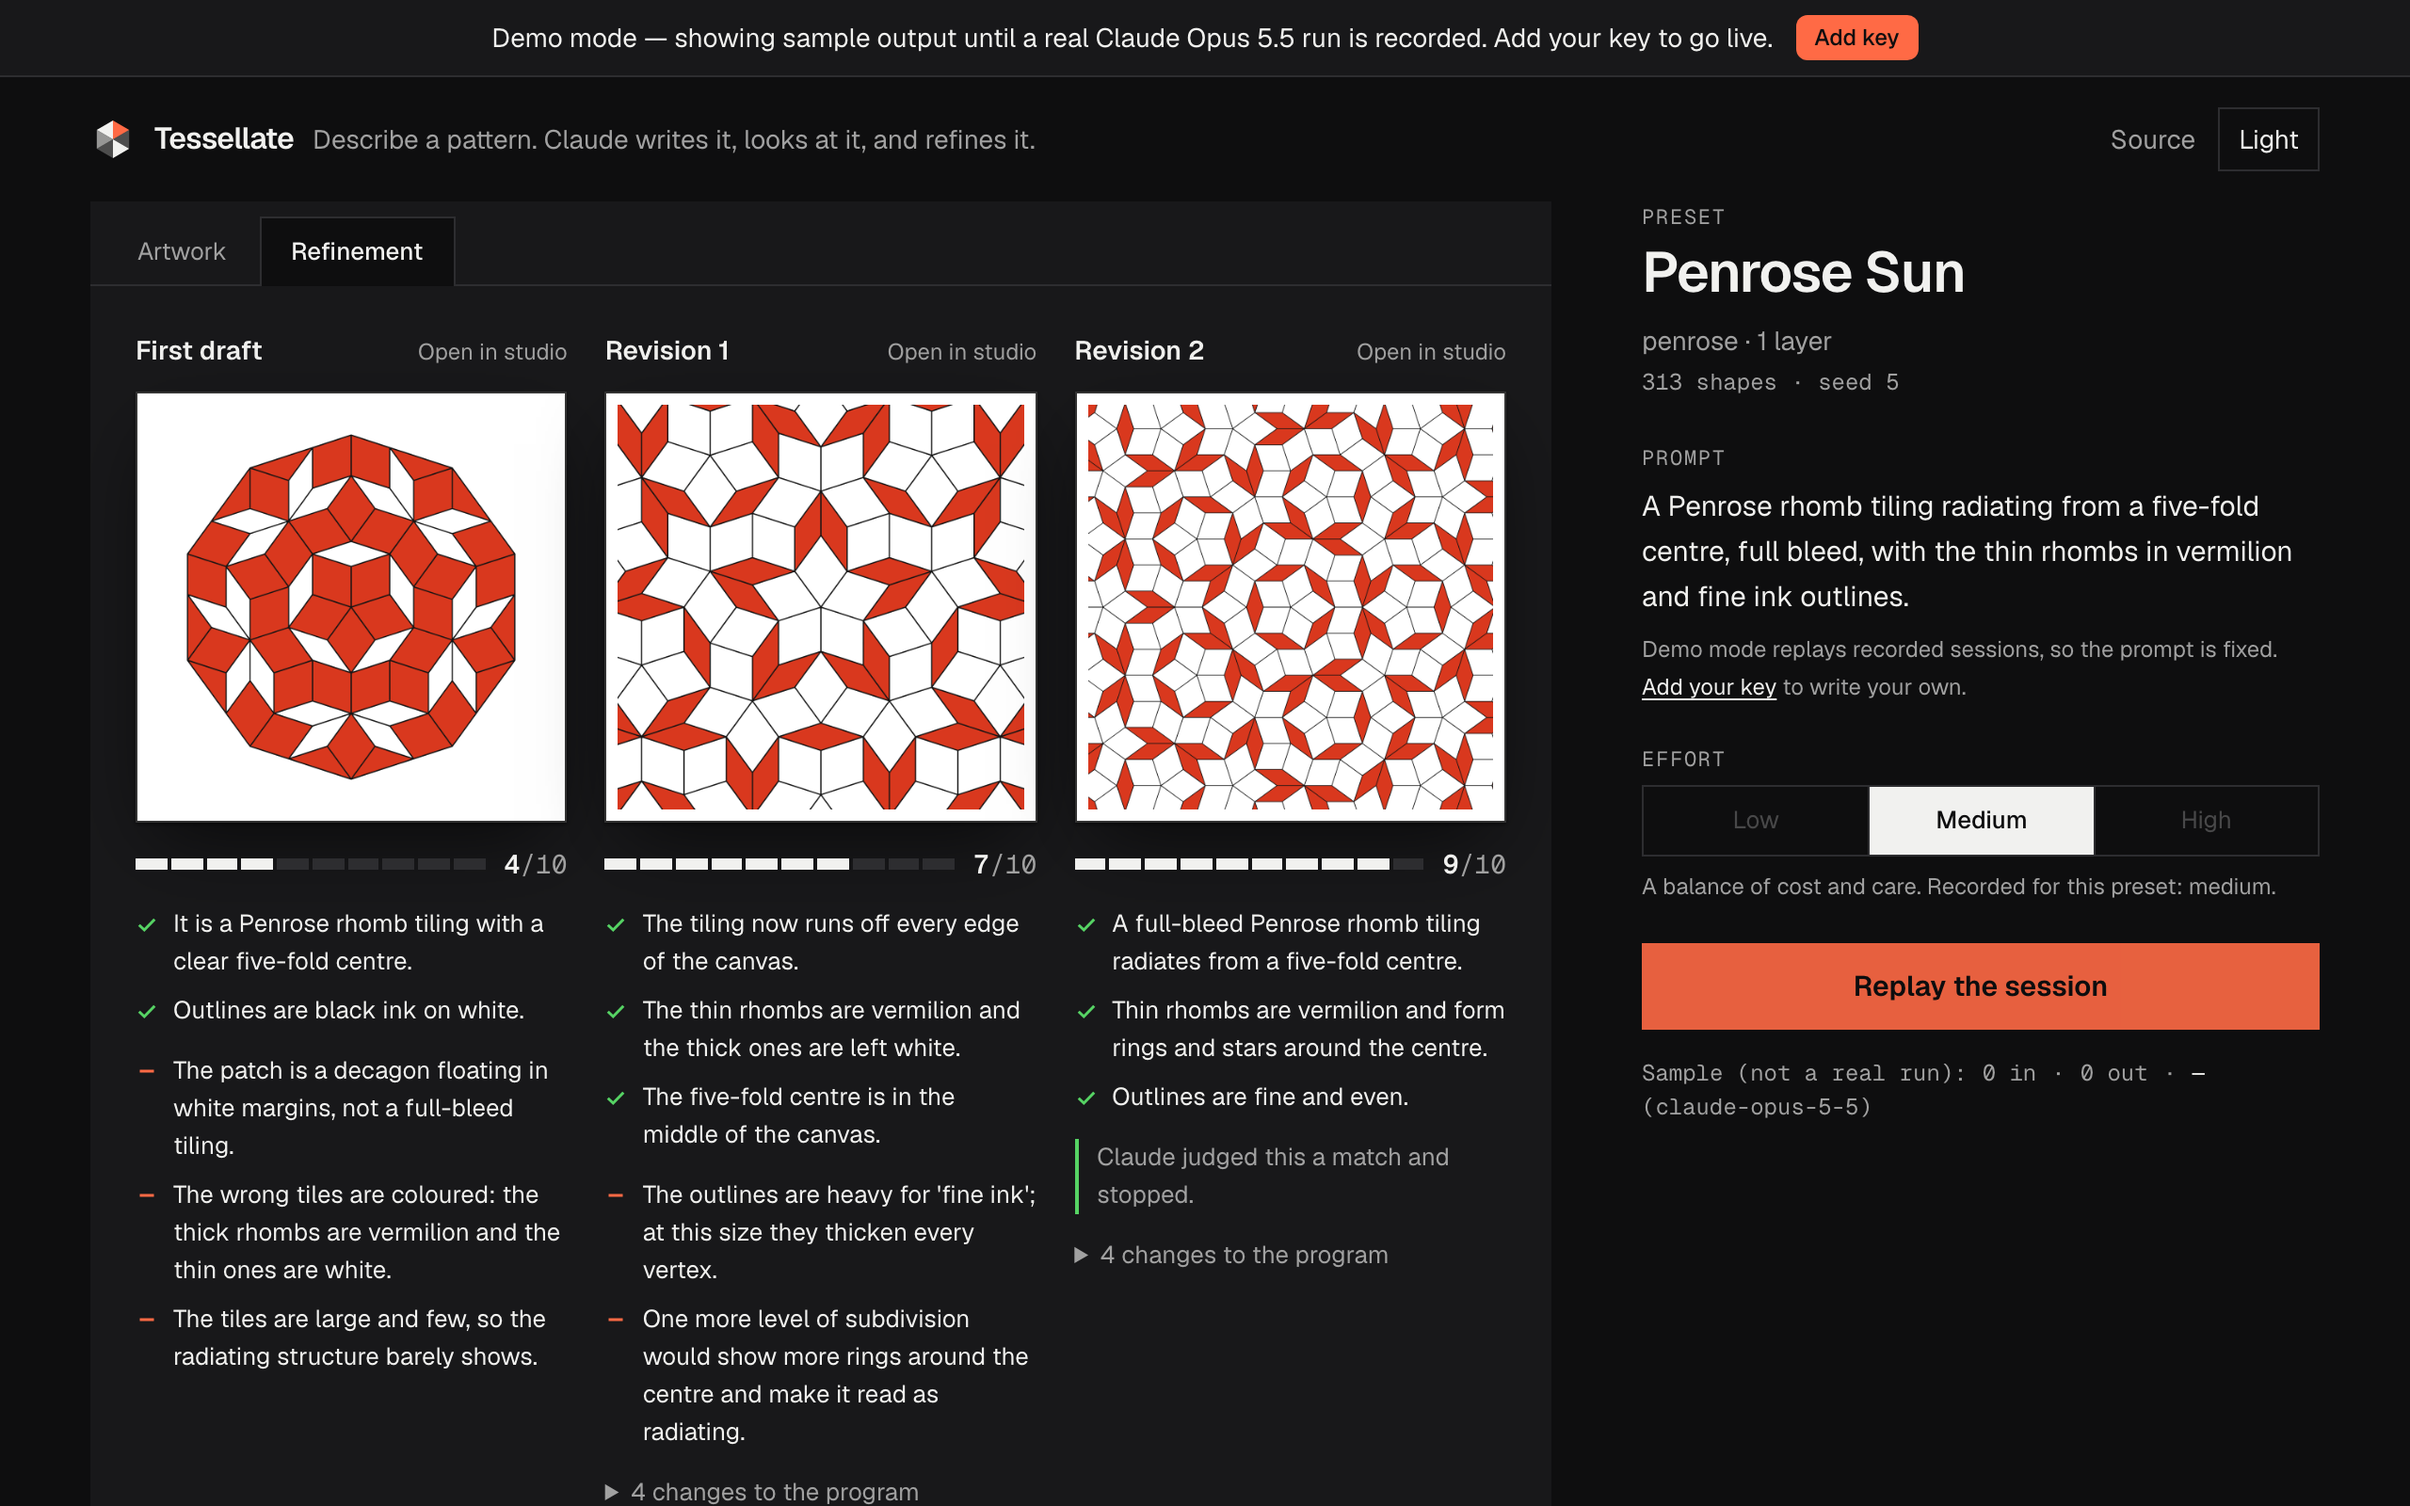
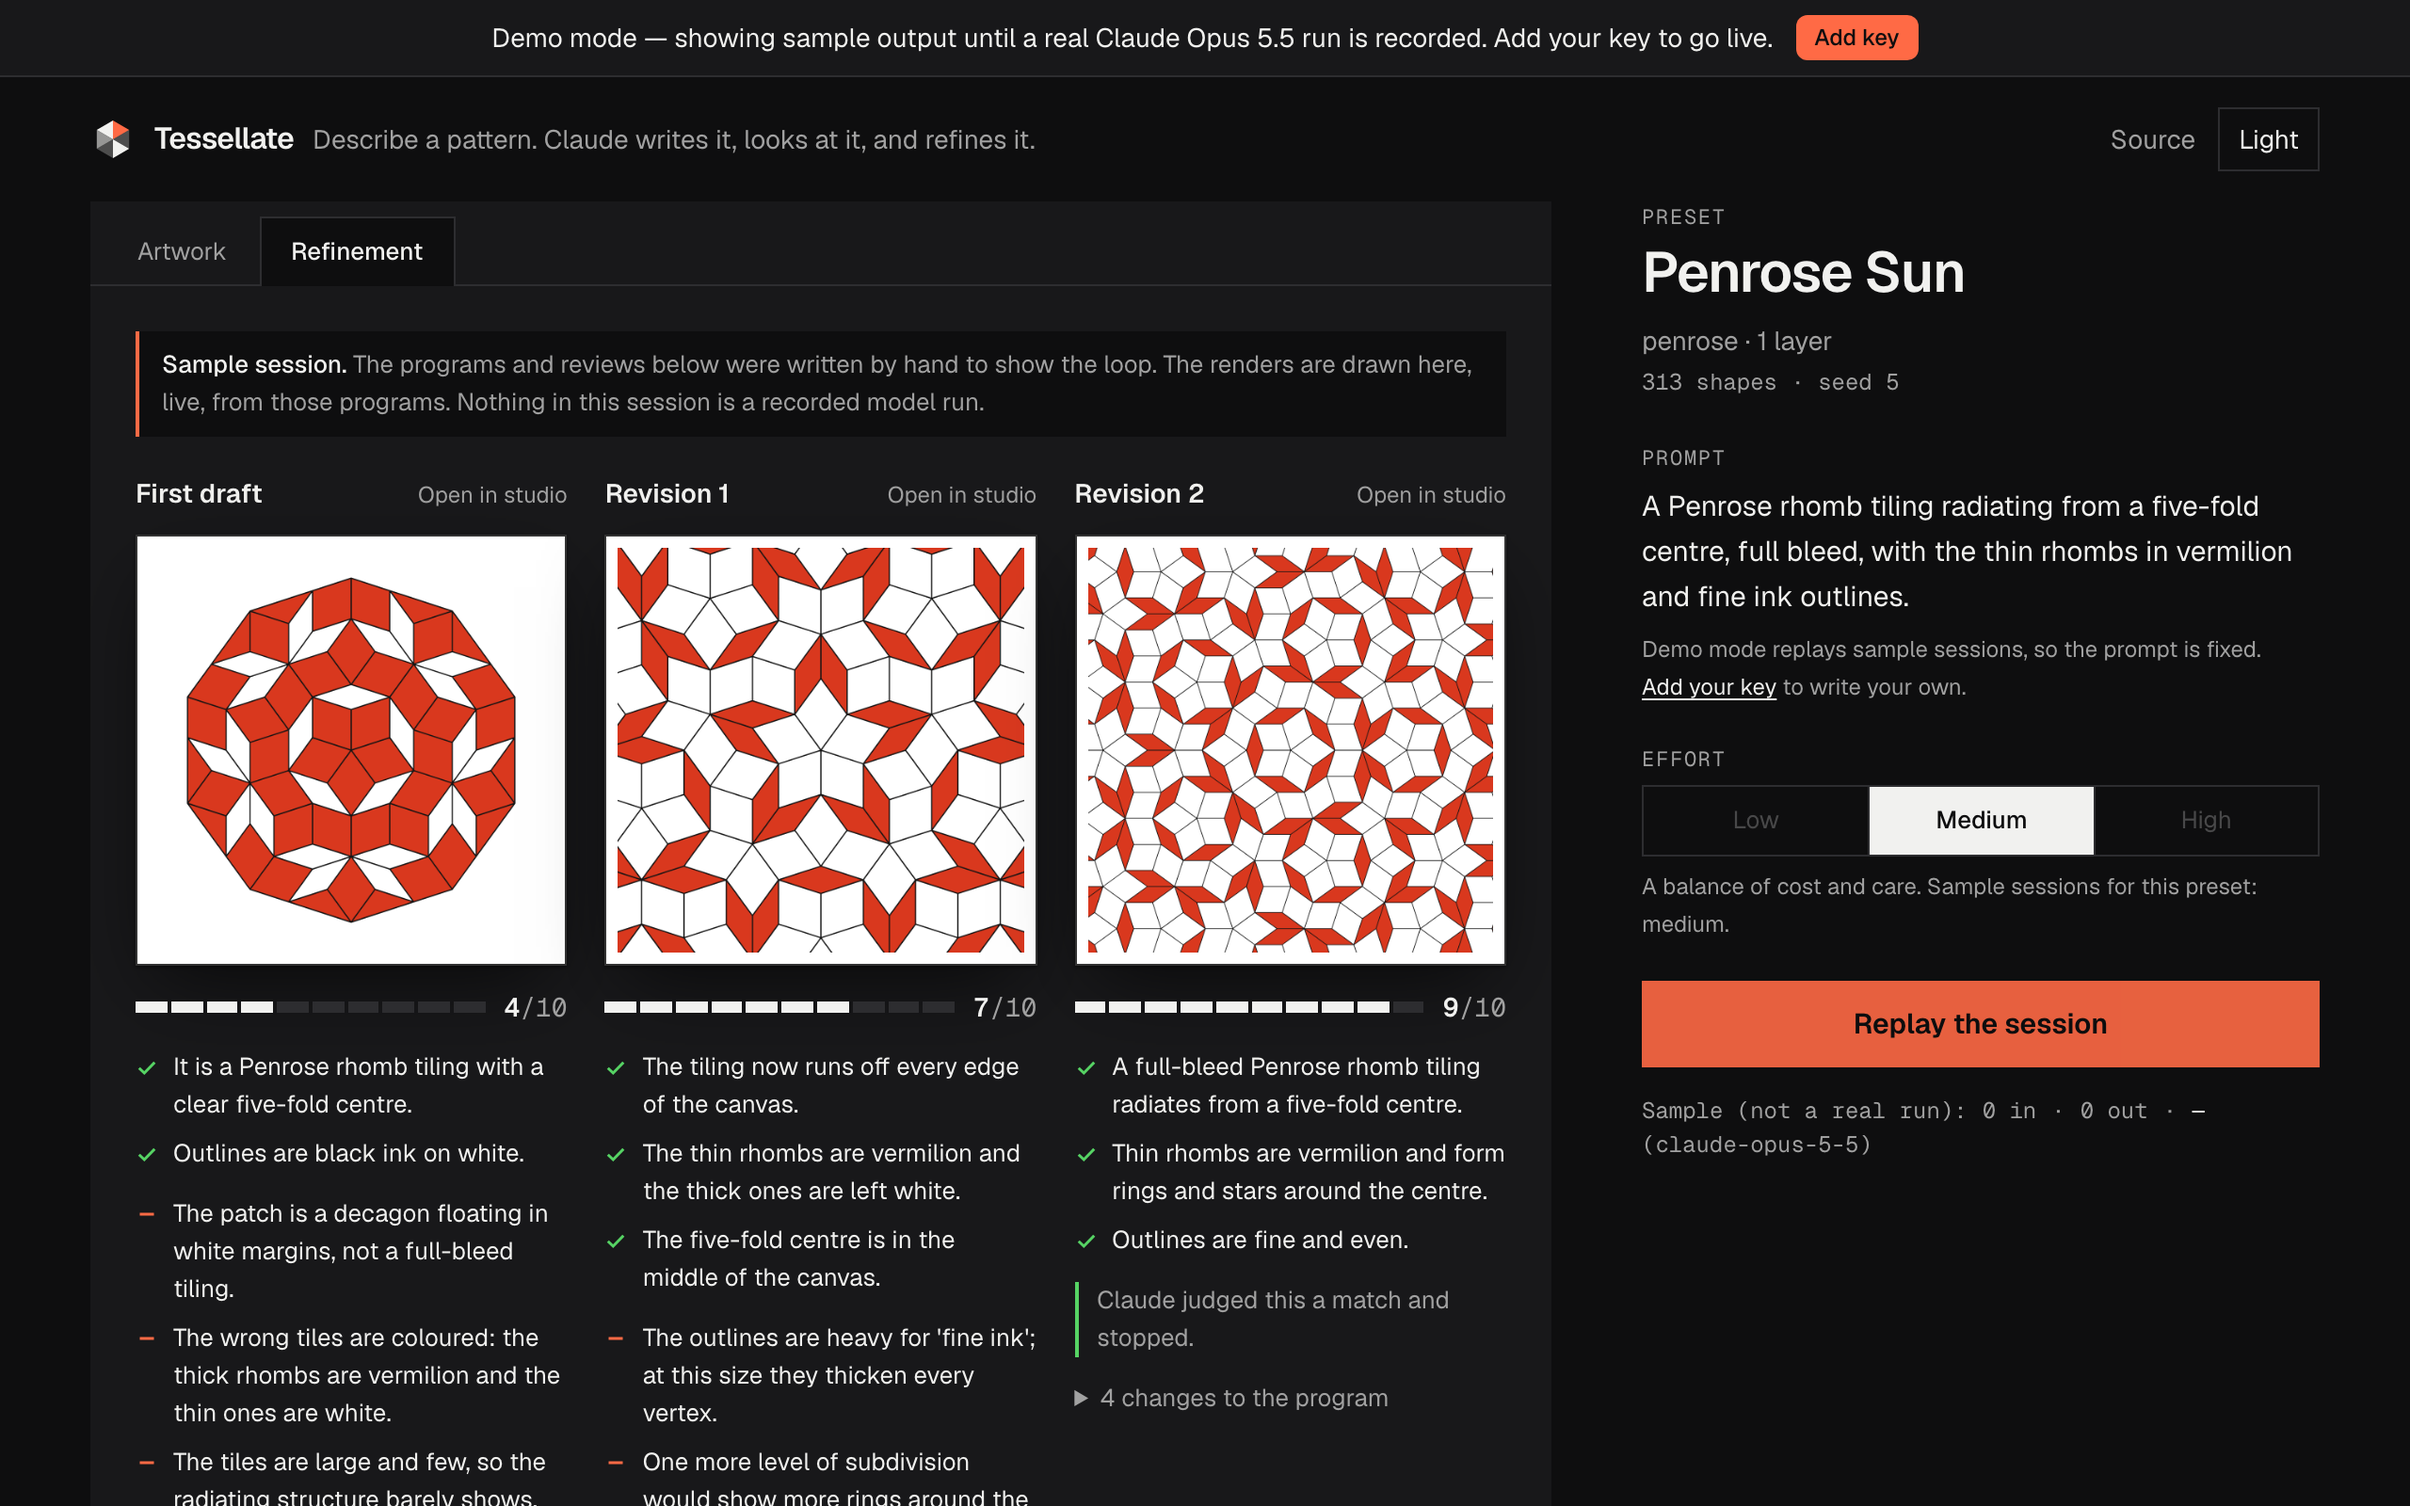
docs: write the README and refresh screenshots
Fills the template: pitch, try-it steps, three engineering decisions, an
architecture diagram, how Claude Opus 5.5 is used, tests, and an honest
list of limits. Screenshots and the GIF are regenerated from the current
UI; adds a shot of the parameter panel.

diff --git a/README.md b/README.md
@@ -1,39 +1,86 @@
-# {{NAME}}
+# Tessellate
 
-> {{ONE_LINE_PITCH}}
+> Describe a pattern in words. Claude Opus 5.5 writes it in a small geometry language, the app renders it, Claude looks at the render, and revises the program until it matches.
 
-[![CI](https://github.com/davezagin-max/{{REPO}}/actions/workflows/ci.yml/badge.svg)](https://github.com/davezagin-max/{{REPO}}/actions/workflows/ci.yml)
+[![CI](https://github.com/davezagin-max/tessellate/actions/workflows/ci.yml/badge.svg)](https://github.com/davezagin-max/tessellate/actions/workflows/ci.yml)
 [![License: MIT](https://img.shields.io/badge/license-MIT-blue.svg)](LICENSE)
-[![Live demo](https://img.shields.io/badge/demo-live-brightgreen.svg)]({{LIVE_URL}})
+[![Live demo](https://img.shields.io/badge/demo-live-brightgreen.svg)](https://tessellate.vercel.app)
 
-![{{NAME}} screenshot](docs/hero.png)
+![A refinement session in Tessellate: first draft, two revisions, and the critique and score for each](docs/hero.png)
+
+![The session replaying step by step](docs/demo.gif)
 
 ## Try it in 10 seconds
 
-**[Open the live demo]({{LIVE_URL}})**: no key, no sign-up. {{WHAT_TO_CLICK_FIRST}}
+**[Open the live demo](https://tessellate.vercel.app)**: no key, no sign-up. A preset is already drawn. Press **Watch Claude refine this** to replay a session: a first draft, then up to three reviews side by side, each with a score, what matches, what is off, and the exact changes made to the program. Then pick any of the 12 presets, drag a slider, and download a plotter-ready SVG.
 
-Demo mode replays recorded Claude Opus 5.5 runs. Add your own Anthropic key in the app to run it live.
+Demo mode replays sessions from fixtures. Add your own Anthropic key in the app to run it live with your own prompt.
+
+Demo data in this commit is hand-written sample output; `pnpm record` replaces it with real Claude Opus 5.5 runs. The app labels it as a sample session everywhere it appears. The renders in a replay are real: each one is drawn in your browser from the program beside it.
+
+| Gallery | Tune by hand | Dark | Phone |
+| --- | --- | --- | --- |
+| ![The first screen: a preset and the gallery strip](docs/gallery.png) | ![Parameter sliders, validator read-out, and exports](docs/studio.png) | ![A Penrose session in the dark theme](docs/hero-dark.png) | ![The studio at 390 px wide](docs/mobile.png) |
 
 ## Why it's interesting
 
-- **{{DECISION_1}}** {{WHY_1}}
-- **{{DECISION_2}}** {{WHY_2}}
-- **{{DECISION_3}}** {{WHY_3}}
+- **The model writes a program, and code decides whether to draw it.** Structured outputs reject recursive schemas and numeric bounds, so the language is flat: a program is a seed, a palette, and up to 8 layers of 27 required fields. One table (`PARAMS` in `lib/geometry/dsl.ts`) holds every range, and three things are generated from it: the validator's clamps, the slider panel, and the language reference in the system prompt. The model is never told a limit the code does not enforce.
+- **Symmetry is exact group theory, not hand-placed copies.** All 17 wallpaper groups are defined by two or three crystallographic generators and closed under composition in integer arithmetic (lattice coordinates, translations in halves), so closure needs no floating-point tolerance. Tests check each group's order, closure, inverses, that every map is an isometry, that mirrors are told apart from glides (p4g has exactly 2 of each), and that a finished render really maps onto itself under every map of its group.
+- **No program can freeze the tab.** Before any geometry is built, the validator computes an upper bound on the finished artwork (motif size times the symmetric copies that can reach the canvas) and rejects anything over 20,000 shapes or 200,000 points with a message that names the cheapest fix. A fuzz test asserts the bound is never below what the renderer actually produces. When Claude's program is rejected, those same messages go back to it for one self-correction pass.
+
+Also worth a look: the plotter exporter (`lib/geometry/plotter.ts`) is its own pipeline, not "SVG with fills off". It clips to the page, draws shared edges once, chains segments into long strokes, and orders them to cut pen-up travel. For the Penrose preset on a 200 mm page that means 313 tiles become 165 strokes, 580 shared edges are drawn once, and ordering cuts pen-up travel by 76%.
 
 ## Architecture
 
 ```mermaid
 flowchart LR
-  UI[Next.js UI] -->|x-anthropic-key header| API[API route]
-  API -->|no key| Fixtures[(Recorded runs)]
-  API -->|key| Claude[Claude Opus 5.5]
+  subgraph Browser
+    UI["Studio UI: presets, sliders, exports"]
+    Loop["Refinement loop (lib/refine/session.ts)"]
+    Val["Validator: clamp, reject, shape cap"]
+    Pipe["Pipeline: generator, placement, symmetry, dedupe"]
+    Out["Canvas / SVG / plotter SVG"]
+    UI --> Val
+    Loop --> Val
+    Val --> Pipe --> Out
+    Out -->|"PNG, 1024 px"| Loop
+  end
+  Loop -->|"POST /api/generate"| Gen["generate route"]
+  Loop -->|"POST /api/critique + PNG"| Crit["critique route"]
+  Gen -->|"no key"| Fix[("fixtures")]
+  Crit -->|"no key"| Fix
+  Gen -->|"x-anthropic-key"| Claude["Claude Opus 5.5"]
+  Crit -->|"x-anthropic-key"| Claude
+  Claude -->|"program fails validation: errors sent back once"| Claude
 ```
+
+The pipeline is pure and seeded (mulberry32, no `Math.random`): the same program always produces byte-identical SVG, which a snapshot test pins for all 12 presets. Canvas, SVG, and the plotter export all read the same scene, so they cannot disagree about what the artwork is.
+
+A layer in the language looks like this (fields the layer does not read are left out here; on the wire every field is present):
+
+```json
+{
+  "generator": "polygon", "symmetry": "p4m", "cell": 0.4,
+  "sides": 8, "inset": 0.2346, "size": 0.5,
+  "stroke": 0, "strokeWidth": 2.5, "fill": -1
+}
+```
+
+Generators: `polygon` (also stars, circles, lines), `lsystem`, `voronoi`, `penrose` (P3 rhombs by deflating Robinson triangles), `subdivision`. Symmetry: `none`, `radial` (cyclic or dihedral), or any of the 17 wallpaper groups.
 
 ## How it uses Claude Opus 5.5
 
 | Feature | Why |
 | --- | --- |
-| {{FEATURE}} | {{WHY}} |
+| Structured outputs for the program and for the review | The answer is parsed straight into the language's schema. The schema carries no bounds (the API rejects them), so a deterministic validator clamps and checks after parsing. |
+| Vision on its own output | Writing geometry blind is hard: stars that should touch float apart, the wrong tile gets the colour. The browser renders each program to a 1024 px PNG and sends it back with the original prompt, so the review is of what was actually drawn. |
+| An iterative loop, stateless per step | Draft, then up to three reviews, each returning `{ matches, gaps, score, done, revisedProgram }`. Every call is a fresh conversation with the prompt, the current program, and its image, so there is no long history to replay and any step can be recorded or replayed alone. Stop rules are code: `done`, an unchanged revision, or the limit. |
+| Effort control | A low / medium / high selector sits next to the cost meter and is passed explicitly on every call, so a visitor can trade thinking depth for cost and see the token count change. |
+| One self-correction pass | If a well-formed answer fails validation, the validator's messages are appended as the next user turn (the first turn, thinking blocks included, is sent back untouched) and Claude gets one retry. |
+| Prompt caching | The language reference is generated from the parameter table and is identical on every call, so the system prompt is sent with a cache breakpoint. |
+| Untrusted input and refusals | The visitor's prompt and the program under review are wrapped in tags the system prompt declares to be data. A refusal is returned as a normal result and shown as a clear message with what was spent so far. |
+
+Code computes the facts; the model reasons and explains. The score bar, shape counts, plot statistics, and the "changes to the program" list under each revision are all computed (the last one is a diff of the two programs), never taken from the model's prose.
 
 **Your key stays yours.** The app is bring-your-own-key. The key lives in your browser tab's memory (optionally `sessionStorage`), travels in an `x-anthropic-key` header to this app's own API route, and is used for that one request. The server never stores or logs it. Each live action shows its token count and cost.
 
@@ -46,20 +93,40 @@ pnpm dev
 
 Open http://localhost:3000. It runs in demo mode until you add a key in the UI.
 
+To replace the sample sessions with real ones, put `ANTHROPIC_API_KEY` in `.env.local` and run `pnpm record` (it drives the real page in headless Chromium and stops at a $3 budget by default), then `pnpm test`.
+
 ## Tests & quality
 
 ```bash
 pnpm check   # lint, typecheck, unit tests, production build
 ```
 
-{{WHAT_THE_TESTS_COVER}}
+296 tests, about one second. What they cover:
+
+- **Symmetry maths:** the order and point-group order of all 17 groups, closure, inverses, isometry for three cell shapes, orbit size of a generic point, mirror versus glide, p3m1 versus p31m, and an end-to-end check that a rendered scene is invariant under its own group.
+- **Language validation:** clamps and warnings, structural errors, L-system grammar errors, idempotence, and a fuzz over random in-range programs showing the shape-cap estimate is a true upper bound.
+- **Renderer determinism:** a hash snapshot of the SVG for every preset, plus a check that the Canvas painter issues the same paths in the same order as the SVG writer.
+- **Generators:** Penrose (triangle-count recurrence, area conservation, rhomb angles and edge lengths, thick-to-thin ratio near the golden ratio, edge-to-edge), Voronoi (cells partition the square, every sample point falls in its nearest site's cell), L-systems, subdivision.
+- **Plotter export:** clipping, shared-edge removal, chaining (the dragon curve stays one stroke), ordering, real lengths.
+- **Claude path, with a fake client:** request shape and effort, wire schemas free of unsupported keywords, self-correction, refusal, truncation, image handling.
+- **Smoke test:** the real refinement loop against the real route handlers in demo mode, with no browser and no key. Every fixture is validated through the same pipeline the live path uses.
 
 CI runs the same checks plus a gitleaks secret scan on every push.
 
 ## Tradeoffs, limitations, next steps
 
-- {{TRADEOFF}}
+- **The live path has not yet run against the real API.** No key existed while this was built. It is complete and covered by fake-client tests and by a browser run with every API call intercepted, but the first real run is where I expect surprises: whether the API accepts the 27-field layer schema as is, and how good a first draft is when the model places motifs without seeing them.
+- **The demo sessions are hand-written samples** until `pnpm record` is run with a key. The UI says so wherever they appear, and the low-effort sample is not evidence of how low effort behaves.
+- **The shape-cap estimate is conservative for wallpaper layers.** It bounds a motif by a disc, so it can reject a program that would have fit after culling. The error says what to change.
+- **Lattices are axis-aligned.** p1 and p2 use a rectangular cell, not a general oblique one, and there is no lattice rotation parameter. Motifs are not clipped to the fundamental domain: a motif that crosses a mirror overlaps its image.
+- **Curves are polylines** (a circle is a 64-gon), which is what a plotter wants anyway.
+- **Plotter export** outlines a shape in its stroke colour (or its fill colour if it has no stroke), drops fills and opacity, and orders strokes greedily rather than optimally.
+- **Rendering runs on the main thread.** The cap bounds the worst case (in a 6,000-program fuzz run during review, the slowest accepted program built in about 130 ms), so I left out a Web Worker.
+- **On a phone the main button sits just below the first screen.** The artwork comes first.
+- Three effort levels are offered; `xhigh` and `max` are left out. Each step is one request, so there is no streamed progress text during a live call.
 - Rate limiting is in memory per server instance: enough to blunt abuse of a demo, not a global quota.
+
+Next: record real sessions and compare efforts with measured cost and scores, hatch fills for the plotter, oblique lattices, and a "review what is on my canvas now" action that starts the loop from a hand-edited program.
 
 ---
 
